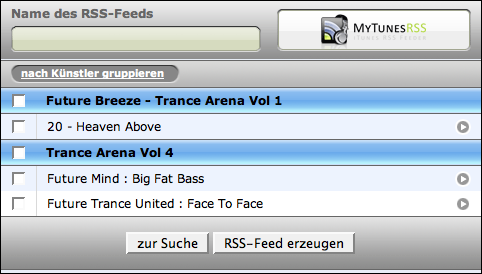
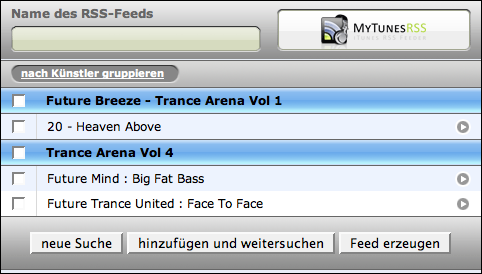
rss feed limit, multiple searches per playlist, cleanup
git-svn-id: svn://127.0.0.1/MyTunesRss/trunk@872 6cd82e91-2702-0410-863d-86aa3370aca5

Changed region(s): [[0.0622, 0.8467, 0.9336, 0.9343]]

diff --git a/etc/documentation/docs/de/webapp.html b/etc/documentation/docs/de/webapp.html
@@ -55,18 +55,25 @@
         <img src="images/web_search.png" width="463" alt="Suchmaske" />
 
         <p>
-            Auf der Suchmaske können Sie direkt aus einer Wiedergabeliste einen RSS Feed erstellen. Wenn Sie keine entsprechende Wiedergabeliste
-            haben, können Sie auch in die beiden Felder "Künstler" und "Album" beliebige Suchbegriffe eingeben. Es werden alle Titel gefunden, auf die
-            die beiden Angaben zutreffen. Wenn Sie beispielsweise beide Felder leer lassen, würden sämtliche Titel Ihrer Musikbibliothek gefunden. Das
+            Auf der Suchmaske können Sie direkt aus einer Wiedergabeliste einen RSS Feed erstellen. Wenn Sie ein Limit für die Anzahl der Einträge
+            eines RSS Feeds konfiguriert haben und eine iTunes Wiedergabeliste mehr Titel enthält, so wird die Liste automatisch aufgeteilt.
+            Angenommen ein Limit von 100 Titeln ist konfiguriert und eine Liste "Beispiel" hat 213 Einträge. In diesem Fall werden die Listen
+            "Beispiel [001 - 100]", "Beispiel [101 - 200]" und "Beispiel [201 - 213]" angeboten. Wenn Sie keine entsprechende Wiedergabeliste haben,
+            können Sie auch in die beiden Felder "Künstler" und "Album" beliebige Suchbegriffe eingeben. Es werden alle Titel gefunden, auf die die
+            beiden Angaben zutreffen. Wenn Sie beispielsweise beide Felder leer lassen, würden sämtliche Titel Ihrer Musikbibliothek gefunden. Das
             Ergebnis ist jedoch auf maximal 200 Treffer eingeschränkt. </p>
         <img src="images/web_select.png" width="463" alt="Auswahl der Titel" />
 
         <p>
             Wenn Sie ein Suchergebnis haben, können Sie oben in der Maske einen Namen für den RSS Feed eingeben. Wenn Sie das Feld nicht befüllen,
             wird ein Standardtitel vergeben. Darunter befinden sich Knöpfe, um das Ergebnis wahlweise nach Künster oder Album zu gruppieren. Sie
-            können beliebige Titel auswählen und mit dem Knopf an Ende der Seite einen RSS Feed erzeugen. Wenn Sie alle Titel einer Gruppe, also eine
-            Künstlers oder eines Albums, je nach Gruppierung, auswählen möchten, aktivieren Sie bitte die Auswahlbox neben der Gruppe. Mit dem kleinen
-            Pfeilknopf rechts von einem Titel können Sie diesen direkt wiedergeben, d.h. auf das Zielgerät herunterladen. </p>
+            können beliebige Titel auswählen und mit dem rechten Knopf an Ende der Seite einen RSS Feed erzeugen. Mit dem linken Knopf verwerfen Sie
+            das Ergebnis und starten eine neue Suche. Mit dem mittleren Knopf werden die gewählten Titel in den Feed übernommen und eine weitere Suche
+            gestartet. Das Ergebnis der neuen Suche wird ebenfalls dem Feed hinzugefügt. Auf diese Weise können Sie Ihren Feed mittels mehrerer Suchen
+            nach unterschiedlichen Künstlers und Alben zusammenstellen. Wenn Sie fertig sind, drücken Sie den rechten Knopf zum erstellen des gesamten
+            Feeds. Wenn Sie alle Titel einer Gruppe, also eine Künstlers oder eines Albums, je nach Gruppierung, auswählen möchten, aktivieren Sie
+            bitte die Auswahlbox neben der Gruppe. Mit dem kleinen Pfeilknopf rechts von einem Titel können Sie diesen direkt wiedergeben, d.h. auf
+            das Zielgerät herunterladen. </p>
 
     </div>
 

diff --git a/etc/documentation/docs/en/webapp.html b/etc/documentation/docs/en/webapp.html
@@ -55,18 +55,23 @@
         <img src="images/web_search.png" width="463" alt="Search form" />
 
         <p>
-            You can use a playlist to create an RSS feed right away on the search form. If you do not have an appropriate playlist, you can also
-            search for titles by artist and album. Just enter search terms and click the "search music" button. All titles matching both your search
-            terms will be returned. In case you leave both fields blank you will find all titles of your library. The result is restricted to a
-            maximum of 200 titles, so usually you will not get a result when searching without any search term. </p>
+            You can use a playlist to create an RSS feed right away on the search form. If you have configured a limit for the number of entries in an
+            RSS feed and an iTunes playlists contains more titles, the playlist will automatically be splitted. With a limit of 100 for example, a
+            list named "Sample" with 213 entries will be offered as three separate lists "Sample [001 - 100]", "Sample [101 - 200]" and "Sample [201 -
+            213]". If you do not have an appropriate playlist, you can also search for titles by artist and album. Just enter search terms and click
+            the "search music" button. All titles matching both your search terms will be returned. In case you leave both fields blank you will find
+            all titles of your library. The result is restricted to a maximum of 200 titles, so usually you will not get a result when searching
+            without any search term. </p>
         <img src="images/web_select.png" width="463" alt="Title selection" />
 
         <p>
             In the search result you can specify a name for the RSS feed to create. If you leave the field blank, a default name will be used. Below
-            this field you can group the results by artist or album. You can select any titles and use the button at the end of the page to create the
-            RSS feed from the selection. Use the checkbox of a group to select all titles of this group, i.e. the artist or album depending on the
-            current grouping. With the little arrow button on the right of a title you can directly play it, i.e. download it to the target
-            device. </p>
+            this field you can group the results by artist or album. You can select any titles and use the right button at the end of the page to
+            create the RSS feed from the selection. The left button clears the result and starts a new search. The middle button adds the selection to
+            the feed and takes you to another search. The selected results of the new search can be added to the feed as well. This feature lets you
+            compose a feed from multiple searches using different artists and albums. When you are finished with your feed, just click the right
+            button to create it. Use the checkbox of a group to select all titles of this group, i.e. the artist or album depending on the current
+            grouping. With the little arrow button on the right of a title you can directly play it, i.e. download it to the target device. </p>
 
     </div>
 

diff --git a/etc/documentation/docs/de/versions.html b/etc/documentation/docs/de/versions.html
@@ -38,37 +38,43 @@
 
         </div>
 
-<h1>
+        <h1>
 
-  Versionshistorie
+            Versionshistorie
 
-</h1>
+        </h1>
 
+        <h2>Version 1.1.1</h2>
+        <span class="date">2. Mai 2006</span>
+        <ul>
+            <li>Optionales Limit der Größe eines RSS Feeds</li>
+            <li>RSS Feed aus mehreren Suchergebnissen zusammenstellen</li>
+        </ul>
 
-<h2>Version 1.1</h2>
-<span class="date">1. Mai 2006</span>
-<ul>
-<li>Unterstützung für ungeschützte AAC Dateien</li>
-<li>RSS Feeds direkt aus iTunes Wiedergabelisten</li>
-<li>Kennwortschutz der Webanwendung</li>
-<li>Weniger Speicherverbrauch</li>
-<li>Überarbeitete Oberflächen</li>
-<li>Einfachere Bedienung</li>
-<li>Allgemeine Stabilität verbessert</li>
-</ul>
+        <h2>Version 1.1</h2>
+        <span class="date">1. Mai 2006</span>
+        <ul>
+            <li>Unterstützung für ungeschützte AAC Dateien</li>
+            <li>RSS Feeds direkt aus iTunes Wiedergabelisten</li>
+            <li>Kennwortschutz der Webanwendung</li>
+            <li>Weniger Speicherverbrauch</li>
+            <li>Überarbeitete Oberflächen</li>
+            <li>Einfachere Bedienung</li>
+            <li>Allgemeine Stabilität verbessert</li>
+        </ul>
 
-<h2>Version 1.0.1</h2>
-<span class="date">5. April 2006</span>
-<ul>
-<li>Fehlende Dateien führen nicht mehr zu Fehlern</li>
-<li>Logdateien für bessere Wartbarkeit</li>
-</ul>
+        <h2>Version 1.0.1</h2>
+        <span class="date">5. April 2006</span>
+        <ul>
+            <li>Fehlende Dateien führen nicht mehr zu Fehlern</li>
+            <li>Logdateien für bessere Wartbarkeit</li>
+        </ul>
 
-<h2>Version 1.0</h2>
-<span class="date">2. April 2006</span>
-<ul>
-<li>Erstes offizielles Release</li>
-</ul>
+        <h2>Version 1.0</h2>
+        <span class="date">2. April 2006</span>
+        <ul>
+            <li>Erstes offizielles Release</li>
+        </ul>
 
     </div>
 

diff --git a/etc/documentation/docs/en/versions.html b/etc/documentation/docs/en/versions.html
@@ -38,38 +38,43 @@
 
         </div>
 
+        <h1>
 
-<h1>
+            Version history
 
-  Version history
+        </h1>
 
-</h1>
+        <h2>Version 1.1.1</h2>
+        <span class="date">May 2, 2006</span>
+        <ul>
+            <li>Optionally limit size of an RSS feed</li>
+            <li>Compose RSS feed from multiple search results</li>
+        </ul>
 
+        <h2>Version 1.1</h2>
+        <span class="date">May 1, 2006</span>
+        <ul>
+            <li>Support for unprotected AAC files</li>
+            <li>Create RSS directly from iTunes playlists</li>
+            <li>Protect web pages with password</li>
+            <li>Less memory consumption</li>
+            <li>Improved user interfaces</li>
+            <li>Easier to use</li>
+            <li>Overall stability improvements</li>
+        </ul>
 
-<h2>Version 1.1</h2>
-<span class="date">May 1, 2006</span>
-<ul>
-<li>Support for unprotected AAC files</li>
-<li>Create RSS directly from iTunes playlists</li>
-<li>Protect web pages with password</li>
-<li>Less memory consumption</li>
-<li>Improved user interfaces</li>
-<li>Easier to use</li>
-<li>Overall stability improvements</li>
-</ul>
+        <h2>Version 1.0.1</h2>
+        <span class="date">April 5, 2006</span>
+        <ul>
+            <li>Missing files do not crash application</li>
+            <li>Log files for better maintenance</li>
+        </ul>
 
-<h2>Version 1.0.1</h2>
-<span class="date">April 5, 2006</span>
-<ul>
-<li>Missing files do not crash application</li>
-<li>Log files for better maintenance</li>
-</ul>
-
-<h2>Version 1.0</h2>
-<span class="date">April 2, 2006</span>
-<ul>
-<li>First official release</li>
-</ul>
+        <h2>Version 1.0</h2>
+        <span class="date">April 2, 2006</span>
+        <ul>
+            <li>First official release</li>
+        </ul>
 
     </div>
 

diff --git a/etc/documentation/docs/en/config.html b/etc/documentation/docs/en/config.html
@@ -74,6 +74,13 @@
             Specifying a fake suffix can be necessary in case the target device which should use the RSS feed does not support the default suffix. The
             Playstation Portable with firmware version 2.60 for example can play AAC files only with the suffix MP4 and not with the standard suffix
             M4A used in iTunes. So you can offer the target device an alternative suffix for the supported file types MP3 and M4A. </p>
+
+        <p>
+            In case the target device supports a limited number of entries in an RSS feed only, you can set this limit in MyTunesRSS. The Playstation
+            Portable for example does not show more then 100 entries in a feed. When an iTunes playlist is bigger than the configured limit for a
+            feed, the list is automatically splitted into multiple lists matching the maximum size. The limit also applies when manually selecting
+            titles for a feed. </p>
+
         <img src="images/info.png" alt="Information" />
 
         <p>

diff --git a/etc/documentation/docs/de/config.html b/etc/documentation/docs/de/config.html
@@ -76,6 +76,13 @@
             unterstützt. Die Playstation Portable mit Firmware 2.60 kann AAC Dateien mit der Standardendung M4A nicht abspielen, sondern unterstützt
             nur die Endung MP4. Sie können also dem Zielgerät mit dieser Einstellung für die beiden unterstützten Typen MP3 und M4A eine alternative
             Endung anbieten. </p>
+
+        <p>
+            Wenn das Zielgerät nur eine bestimmte Anzahl von Einträgen in einem RSS Feed unterstützt, dann können Sie in MyTunesRSS eine entsprechende
+            Beschränkung konfigurieren. Die Playstation Portable beispielsweise zeigt nicht mehr als 100 Einträge pro Feed. Dadurch werden längere
+            iTunes Wiedergabelisten automatisch in mehrere Listen aufgeteilt, so dass jede einzelne das Limit nicht überschreitet. Die Beschränkung
+            greift auch bei manuellen Zusammenstellung eines Feeds. </p>
+
         <img src="images/info.png" alt="Informationen" />
 
         <p>
